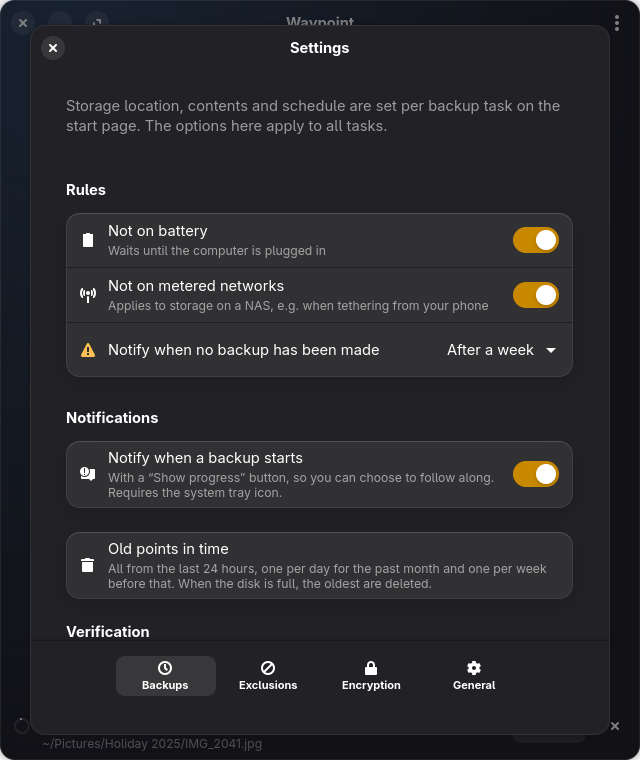
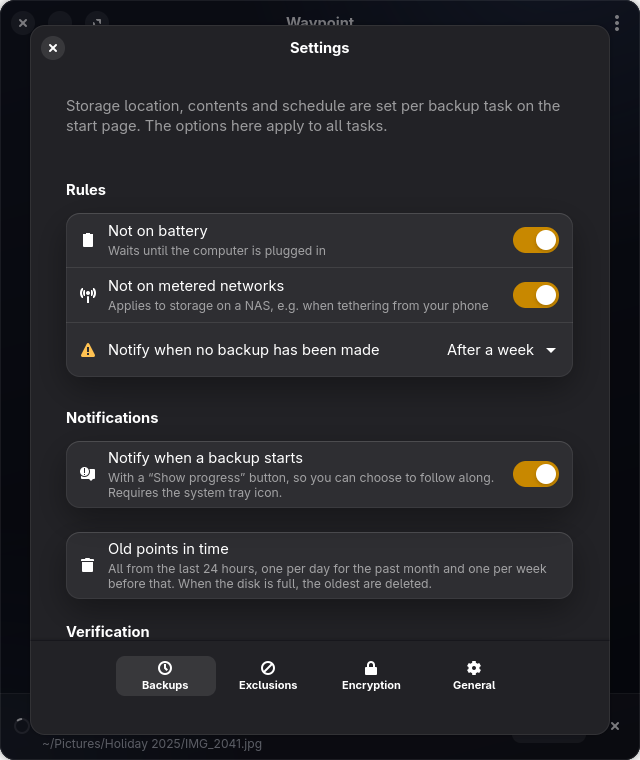
Waypoint 0.6.3: Vifte's colors in the main window
Near-black (dark) or light grey-blue (light) background with a faint blue
glow at the top right, more transparent cards with deeper shadows, clearer
secondary text and lines, and a see-through status bar at the bottom – the
same colors as Vifte 2.0 and Link Studio. The layout is unchanged. The
"Background glow" menu option still turns the glow off, and high contrast
keeps the plain system colors. New screenshots in the README.

Changed region(s): [[0.0, 0.0, 0.25, 0.1816], [0.9688, 0.9987, 1.0, 1.0], [0.0, 0.9987, 0.0312, 1.0]]

diff --git a/waypoint/style.css b/waypoint/style.css
@@ -45,36 +45,65 @@
   font-weight: 800;
 }
 
-/* Hovedvinduet, som Vifte: en svak blå glød (fargen fra kartnålen) og kort som svever over bakgrunnen.
-   Dialogene ligger utenfor og forblir rolige. */
-.waypoint-main.waypoint-glow {
-  background-image: radial-gradient(farthest-side at 10% 0, alpha(#4a8fd0, 0.30), transparent);
+/* Hovedvinduet med Vifte-fargene (som Vifte 2.0 og Link Studio): nesten svart (mørkt) eller lys grå-blå (lyst)
+   bakgrunn, svak blå glød øverst til høyre, gjennomsiktige kort med dyp skygge og tydeligere tekst og linjer.
+   Ikke i høy kontrast (der mangler klassen waypoint-glass). Dialogene ligger utenfor og forblir rolige.
+   Bare alpha() og vanlige farger: var() og color-mix() krever nyere GTK. */
+.waypoint-main.waypoint-glass {
+  color: #F5F5F7;
+  background-color: #0D1016;
+  background-image: linear-gradient(165deg, #141821, #0D1016 55%, #090B10);
 }
-.waypoint-main.waypoint-glow.waypoint-light {
-  background-image: radial-gradient(farthest-side at 10% 0, alpha(#4a8fd0, 0.22), transparent);
+.waypoint-main.waypoint-glass.waypoint-glow {
+  background-image: radial-gradient(75% 65% at 88% -12%, alpha(#6080BE, 0.20), transparent 70%),
+                    radial-gradient(55% 45% at 0% 100%, alpha(#465A82, 0.12), transparent 70%),
+                    linear-gradient(165deg, #141821, #0D1016 55%, #090B10);
+}
+.waypoint-main.waypoint-glass.waypoint-light {
+  color: #1D1D1F;
+  background-color: #E8EBF0;
+  background-image: linear-gradient(165deg, #F2F4F8, #E8EBF0);
+}
+.waypoint-main.waypoint-glass.waypoint-light.waypoint-glow {
+  background-image: radial-gradient(75% 65% at 88% -12%, alpha(#7896CD, 0.22), transparent 70%),
+                    linear-gradient(165deg, #F2F4F8, #E8EBF0);
 }
 .waypoint-main headerbar {
   background: none;
   box-shadow: none;
 }
-.waypoint-main .action-card,
-.waypoint-main .boxed-list {
-  background-color: alpha(white, 0.065);
-  box-shadow: inset 0 1px alpha(white, 0.09), inset 0 0 0 1px alpha(white, 0.07), 0 6px 20px alpha(black, 0.18);
+.waypoint-glass .dim-label { opacity: 1; color: #B4B8C2; }
+.waypoint-glass.waypoint-light .dim-label { color: #55585E; }
+.waypoint-glass separator { background-color: alpha(white, 0.09); }
+.waypoint-glass.waypoint-light separator { background-color: alpha(black, 0.08); }
+.waypoint-glass .action-card,
+.waypoint-glass list.boxed-list {
+  background-color: alpha(white, 0.055);
+  box-shadow: inset 0 1px alpha(white, 0.09), inset 0 0 0 1px alpha(white, 0.06), 0 12px 32px alpha(black, 0.35);
 }
-.waypoint-main .boxed-list {
+.waypoint-main list.boxed-list {
   border-radius: 14px;
 }
-.waypoint-main.waypoint-light .action-card,
-.waypoint-main.waypoint-light .boxed-list {
-  background-color: alpha(white, 0.80);
-  box-shadow: inset 0 0 0 1px alpha(black, 0.06), 0 6px 18px alpha(black, 0.08);
+.waypoint-glass.waypoint-light .action-card,
+.waypoint-glass.waypoint-light list.boxed-list {
+  background-color: alpha(white, 0.66);
+  box-shadow: inset 0 1px alpha(white, 0.9), inset 0 0 0 1px alpha(white, 0.55), 0 10px 28px alpha(#1E283C, 0.10);
 }
-.waypoint-main .action-card:hover {
-  background-color: alpha(white, 0.10);
+.waypoint-glass .action-card:hover {
+  background-color: alpha(white, 0.09);
 }
-.waypoint-main.waypoint-light .action-card:hover {
-  background-color: white;
+.waypoint-glass.waypoint-light .action-card:hover {
+  background-color: alpha(white, 0.9);
+}
+.waypoint-glass list.boxed-list > row { border-bottom-color: alpha(white, 0.09); }
+.waypoint-glass.waypoint-light list.boxed-list > row { border-bottom-color: alpha(black, 0.08); }
+.waypoint-glass .wp-statusbar {
+  background-color: alpha(white, 0.045);
+  box-shadow: inset 0 1px alpha(white, 0.09);
+}
+.waypoint-glass.waypoint-light .wp-statusbar {
+  background-color: alpha(white, 0.5);
+  box-shadow: inset 0 1px alpha(black, 0.08);
 }
 
 /* Statusbrikke i oppgavelisten: farget prikk + kort tekst */

diff --git a/waypoint/app.py b/waypoint/app.py
@@ -44,6 +44,13 @@ def in_thread(work, done, *args):
     threading.Thread(target=runner, daemon=True).start()
 
 
+def set_class(widget: Gtk.Widget, name: str, on: bool):
+    if on:
+        widget.add_css_class(name)
+    else:
+        widget.remove_css_class(name)
+
+
 def label(text="", css=(), xalign=0.0, wrap=False, **kw) -> Gtk.Label:
     lbl = Gtk.Label(label=text, xalign=xalign, wrap=wrap, **kw)
     if wrap:
@@ -318,13 +325,17 @@ class Window(Adw.ApplicationWindow):
     def __init__(self, app):
         super().__init__(application=app, title="Waypoint", default_width=640, default_height=760)
         self.set_size_request(380, 500)
-        # Vifte-stilen (glød og svevende kort, se style.css) har egne verdier for lyst tema.
+        # Vifte-fargene (bakgrunn, glød og svevende kort, se style.css).
         self.add_css_class("waypoint-main")
         sm = Adw.StyleManager.get_default()
-        self._sync_light = lambda *_a: (self.remove_css_class("waypoint-light") if sm.get_dark()
-                                        else self.add_css_class("waypoint-light"))
-        sm.connect("notify::dark", self._sync_light)
-        self._sync_light()
+
+        def sync_style(*_a):
+            # Lyst tema har egne verdier; høy kontrast beholder de vanlige systemfargene.
+            set_class(self, "waypoint-light", not sm.get_dark())
+            set_class(self, "waypoint-glass", not sm.get_high_contrast())
+        sm.connect("notify::dark", sync_style)
+        sm.connect("notify::high-contrast", sync_style)
+        sync_style()
         self.set_glow(bool(settings.get("glow")))
         self.busy = False
         self.cancel_flag = False
@@ -347,10 +358,7 @@ class Window(Adw.ApplicationWindow):
 
     def set_glow(self, on: bool):
         """Den svake blå gløden i bakgrunnen; kan slås av i menyen for ekstra tydelighet."""
-        if on:
-            self.add_css_class("waypoint-glow")
-        else:
-            self.remove_css_class("waypoint-glow")
+        set_class(self, "waypoint-glow", on)
 
     def toast(self, text: str):
         self.toasts.add_toast(Adw.Toast(title=GLib.markup_escape_text(text), timeout=5))

diff --git a/waypoint/jobs_ui.py b/waypoint/jobs_ui.py
@@ -181,6 +181,7 @@ class StatusBar(Gtk.Revealer):
 
     def __init__(self, win):
         super().__init__(transition_type=Gtk.RevealerTransitionType.SLIDE_UP)
+        self.add_css_class("wp-statusbar")
         self.win = win
         self.dismissed: set[str] = set()   # «jobb-id:started» som brukeren har skjult
         self.job_id: str | None = None

diff --git a/waypoint/__init__.py b/waypoint/__init__.py
@@ -1,4 +1,4 @@
 """Waypoint – ta med deg Linux-oppsettet ditt til en ny installasjon."""
 
-__version__ = "0.6.2"
+__version__ = "0.6.3"
 APP_ID = "io.github.waypoint.Waypoint"
